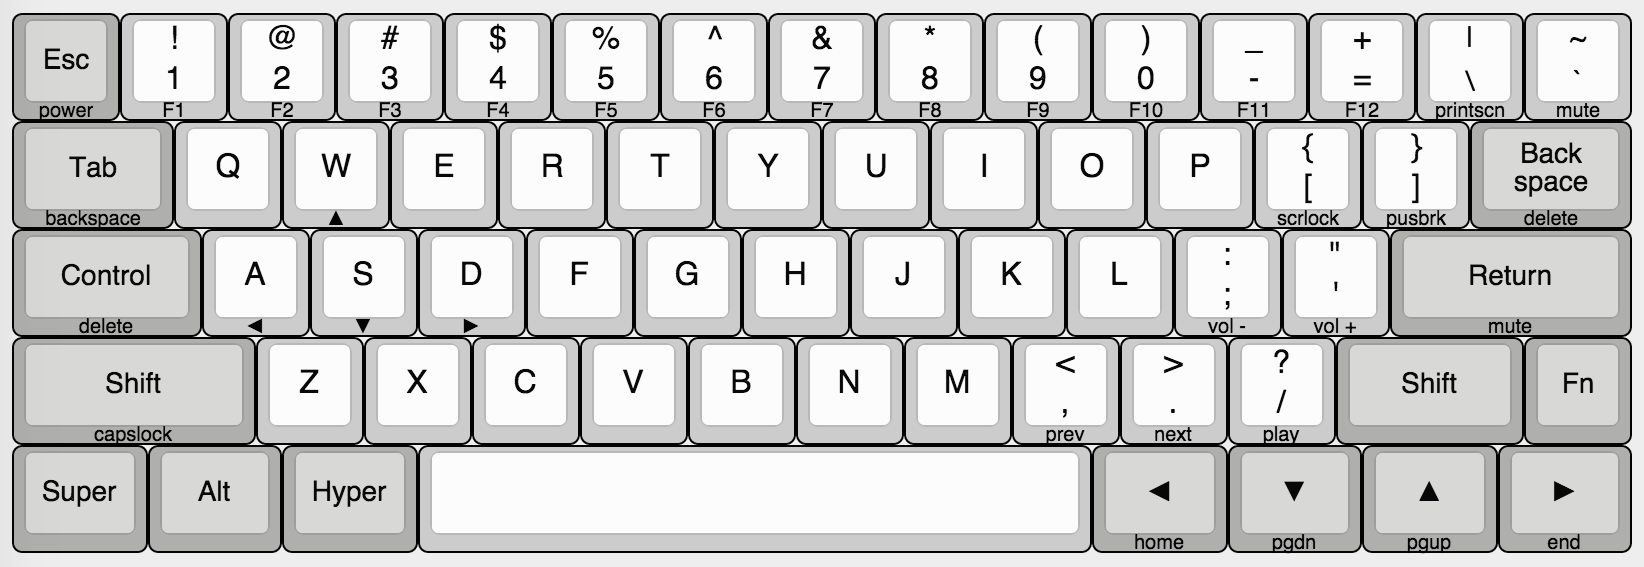
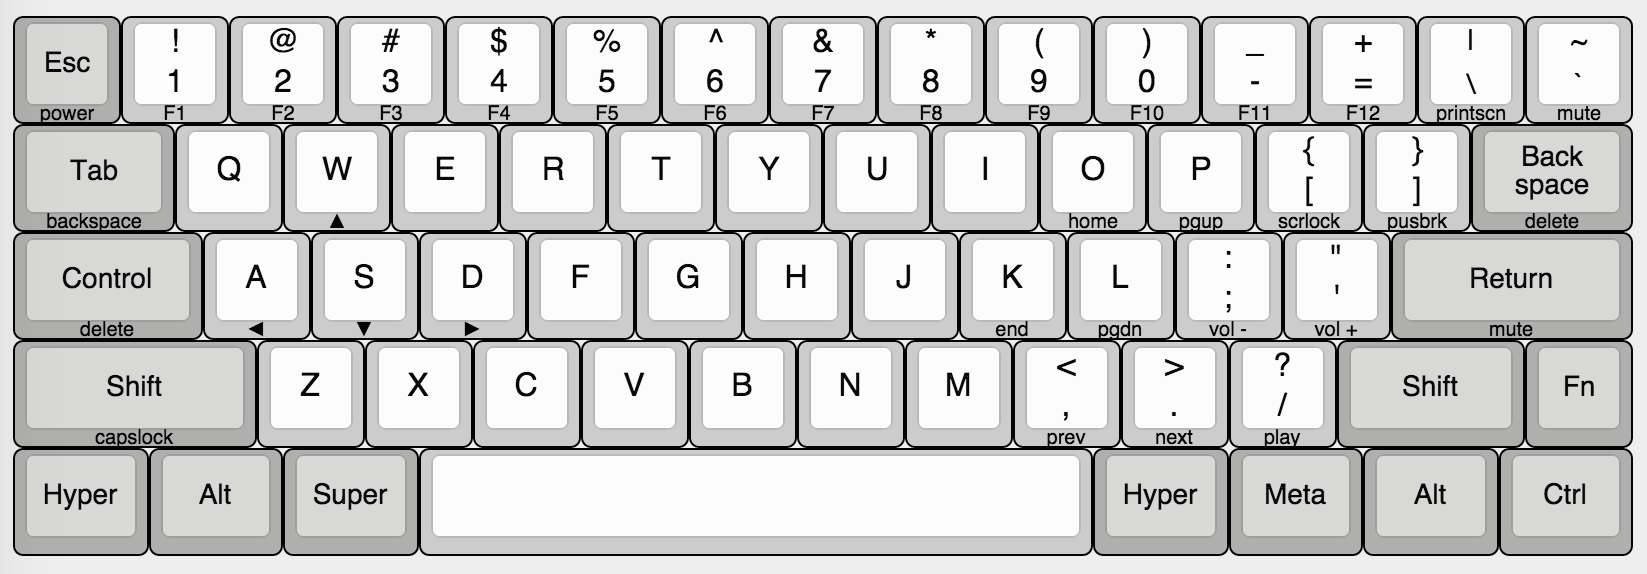
Update keybindings. Use right-hand side modifiers as hyper and meta keys

diff --git a/README.md b/README.md
@@ -1,14 +1,4 @@
 ## Karabiner (aka KeyRemap4MacBook) Personal Configuration
 
-This supports 2 layouts. It can also be a mix of both, but extra careful is
-required when remapping modifiers, especially for the arrow keys. See layouts below:
-
-1. Left-hand Side Bindings
-[![Hyper-Left-Hand](http://i.imgur.com/rv176aa.png)](http://i.imgur.com/rv176aa.png)
-
-2. Right-hand Side Bindings (Vim-style)
-[![Hyper-Right-Hand](http://i.imgur.com/cA9cfbV.png)](http://i.imgur.com/cA9cfbV.png)
-
-3. My HHKB Pro-2 Keyboard (WASD arrows plus extras)
-[![Hyper-Right-Hand](http://i.imgur.com/LYHVO2W.png)](http://i.imgur.com/LYHVO2W.png)
-
+My universal layout/keybindings for all (and future) keyboards I use. See
+images inside the repository for visual layout.
